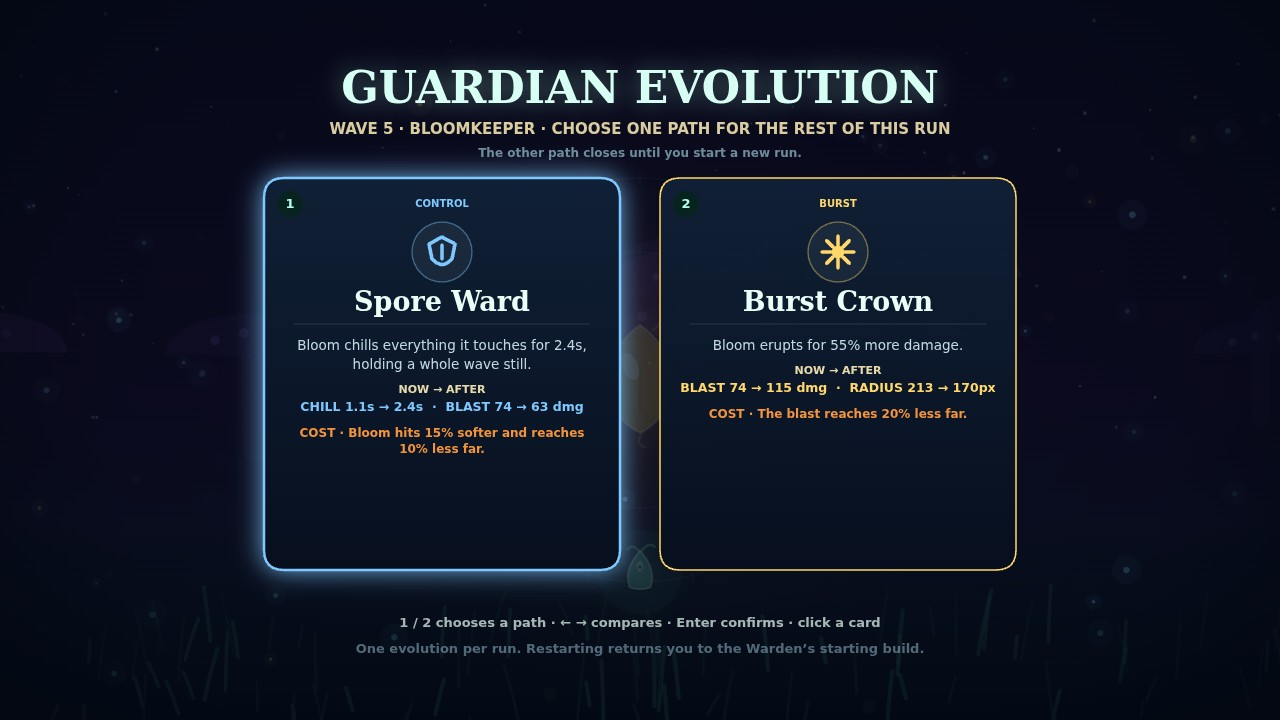
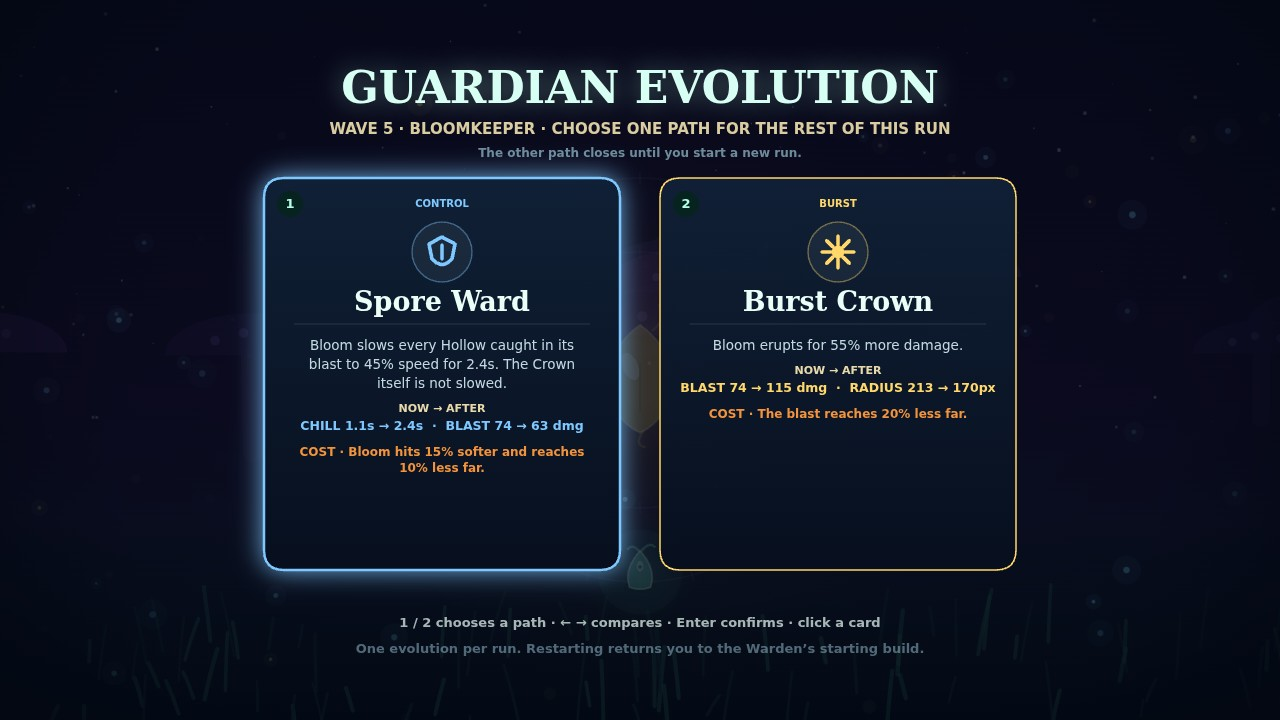
Describe Spore Ward by what it actually does
The card said Bloom chills everything it touches, holding a whole wave
still, but releaseBloom only sets slowTimer 2.4s and slowFactor 0.45 on the
regular enemies inside the blast; the Crown is untouched. Say that instead,
and have the two published gallery images re-rendered from the same scenes.

Changed region(s): [[0.2188, 0.4583, 0.4688, 0.6722]]

diff --git a/game/src/evolutions.js b/game/src/evolutions.js
@@ -37,7 +37,7 @@ export const EVOLUTIONS = {
   bloom: [
     {
       id: 'sporeward', name: 'Spore Ward', kicker: 'CONTROL', color: '#7ec8ff', icon: 'shield',
-      desc: 'Bloom chills everything it touches for 2.4s, holding a whole wave still.',
+      desc: 'Bloom slows every Hollow caught in its blast to 45% speed for 2.4s. The Crown itself is not slowed.',
       cost: 'Bloom hits 15% softer and reaches 10% less far.',
       effect: { bloomSlow: 2.4, bloomSlowFactor: 0.45, bloomDamage: 0.85, bloomRadius: 0.9 },
     },
